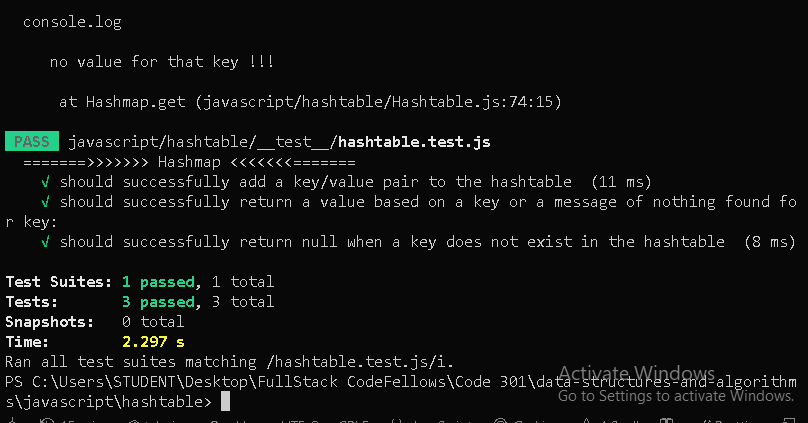
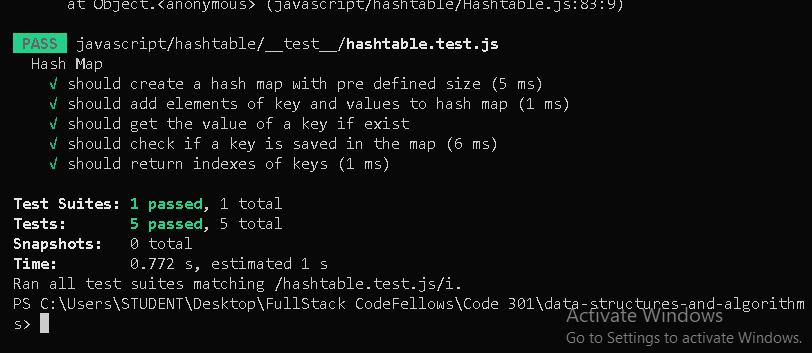
adding

diff --git a/javascript/hashtable/Hashtable.js b/javascript/hashtable/Hashtable.js
@@ -1,121 +1,79 @@
 'use strict';
-
 class Node {
-    constructor(val) {
-        this.val = val;
+    constructor(value) {
+        this.value = value;
         this.next = null;
     }
 }
 
-class LL {
+class LinkedList {
     constructor() {
         this.head = null;
+        this.length = 0;
     }
-    add(val) {
-        let node = new Node(val);
-
+    prepend(value) {
+        const node = new Node(value);
         if (!this.head) {
             this.head = node;
+            this.length++;
         } else {
             node.next = this.head;
             this.head = node;
+            this.length++;
         }
-    }
-
-    getList() {
-        if (!this.head) return 'no-list';
-
-        let current = this.head;
-        let counter = 1;
-        let resultsArr = [];
-
-        while (current) {
-
-            resultsArr[counter - 1] = current.val;
-            current = current.next;
-            counter++;
-        }
-
-        return resultsArr;
     }
 }
 
 class Hashmap {
     constructor(size) {
-        this.storage = new Array(size);
         this.size = size;
+        this.storage = new Array(size);
     }
 
-    hash(key) {
-        return key.split('').reduce((acc, curr) => {
-            return acc + curr.charCodeAt(0);
-        }, 0) * 19 % this.size;
+    code(key) {
+        const sumCharAsci = key.split('').reduce((acc, char) => {
+            return acc + char.charCodeAt(0);
+        }, 0);
+        return (sumCharAsci * 13) % this.size;
     }
 
-    add(key, val) {
-        let hash = this.hash(key);
-        let getListResult;
-
-        if (!this.storage[hash]) {
-            let ll = new LL();
-            ll.add([key, val]);
-            this.storage[hash] = ll;
+    add(key, value) {
+        const hash = this.code(key);
+        if (this.storage[hash]) {
+            this.storage[hash].prepend({ [key]: value });
         } else {
-            this.storage[hash].add([key, val]);
-            getListResult = this.storage[hash].getList();
-            console.log(` already an entry at hashmap position ${hash} ====>>>>>`, getListResult);
+            const linkList = new LinkedList();
+            linkList.prepend({ [key]: value });
+            this.storage[hash] = linkList;
         }
     }
 
     get(key) {
-        let hash = this.hash(key);
-
-        if (!this.storage[hash]) {
-            console.log('\n no value for that key !!!');
-            return null;
-        } else {
-            let node = this.storage[hash];
-            let thisNode = node.head;
-            let result = [];
-
-            while (thisNode) {
-                if (thisNode.val[0] === key) {
-                    result.push(`for the key '${key}' we found ${thisNode.val[0]}: ${thisNode.val[1]}`);
+        const hash = this.code(key);
+        if (this.storage[hash]) {
+            if (this.storage[hash].length > 1) {
+                let node = this.storage[hash].head;
+                while (node) {
+                    if (node.value[key]) return node.value[key];
+                    node = node.next;
                 }
-                thisNode = thisNode.next;
+            } else {
+                return this.storage[hash].head.value[key];
             }
-            return result.length > 0 ? result : `nothing found for key:${key}`;
         }
     }
 
     contains(key) {
-        let hash = this.hash(key);
+        const hash = this.code(key);
+        if (this.storage[hash]) return true;
+        return false;
+    }
 
-        if (!this.storage[hash]) {
-
-            return false;
-        } else {
-            let node = this.storage[hash];
-            let thisNode = node.head;
-
-            while (thisNode) {
-                if (thisNode.val[0] === key) {
-
-                    return true;
-                }
-                thisNode = thisNode.next;
-            }
-
-            return false;
-        }
+    hash(key) {
+        const hash = this.code(key);
+        return this.storage[hash] ? hash : new Error('key does not exist');
     }
 }
-
-let hashmap = new Hashmap(10);
-
-hashmap.add('rami', 'test');
-console.log('getting ... rami', hashmap.get('rami'));
-console.log(hashmap.contains('rami'));
 
 
 module.exports = Hashmap;

diff --git a/javascript/hashtable/__test__/hashtable.test.js b/javascript/hashtable/__test__/hashtable.test.js
@@ -1,27 +1,50 @@
 'use strict';
-
 const Hashmap = require('../Hashtable.js');
-let hashmap = new Hashmap(10);
-
-hashmap.add('rami', 'zaitoun');
-hashmap.add('merch', 'venssa');
-
-
-describe('=======>>>>>>> Hashmap <<<<<<<=======', () => {
-    it('should successfully add a key/value pair to the hashtable ', () => {
-
-        expect(hashmap.contains('rami')).toEqual(true);
-        expect(hashmap.contains('ahmad')).toEqual(false);
+describe('Hash Map', () => {
+    test('should create a hash map with pre defined size', () => {
+        const hashMap = new Hashmap(5000);
+        expect(hashMap).toBeDefined();
+        expect(hashMap.size).toBe(5000);
+        expect(hashMap.storage.length).toBe(5000);
     });
 
-    it('should successfully return a value based on a key or a message of nothing found for key:', () => {
-
-        expect(hashmap.get('rami')).toEqual(["for the key 'rami' we found rami: zaitoun"]);
+    test('should add elements of key and values to hash map', () => {
+        const hashMap = new Hashmap(5000);
+        hashMap.add('one', 'test1');
+        hashMap.add('two', 'test2');
+        hashMap.add('three', 'test3');
+        expect(hashMap.storage[hashMap.code('one')]).toBeDefined();
+        expect(hashMap.storage[hashMap.code('two')]).toBeDefined();
+        expect(hashMap.storage[hashMap.code('three')]).toBeDefined();
     });
-    it('should successfully return null when a key does not exist in the hashtable ', () => {
 
-        expect(hashmap.contains('john')).toEqual(false);
-        expect(hashmap.get('john')).toEqual(null);
+    test('should get the value of a key if exist', () => {
+        const hashMap = new Hashmap(5000);
+        hashMap.add('one', 'test1');
+        hashMap.add('two', 'test2');
+        hashMap.add('three', 'test3');
+        expect(hashMap.get('one')).toBe('test1');
+        expect(hashMap.get('two')).toBe('test2');
+
     });
 
+    test('should check if a key is saved in the map', () => {
+        const hashMap = new Hashmap(5000);
+        hashMap.add('one', 'test1');
+        hashMap.add('two', 'test2');
+        hashMap.add('three', 'test3');
+        expect(hashMap.contains('one')).toBeTruthy();
+        expect(hashMap.contains('two')).toBeTruthy();
+        expect(hashMap.contains('four')).toBeFalsy();
+    });
+
+    test('should return indexes of keys', () => {
+        const hashMap = new Hashmap(5000);
+        hashMap.add('one', 'test1');
+        hashMap.add('two', 'test2');
+        hashMap.add('three', 'test3');
+        expect(hashMap.hash('one')).toBe(hashMap.code('one'));
+        expect(hashMap.hash('two')).toBe(hashMap.code('two'));
+        expect(hashMap.hash('three')).toBe(hashMap.code('three'));
+    });
 });
